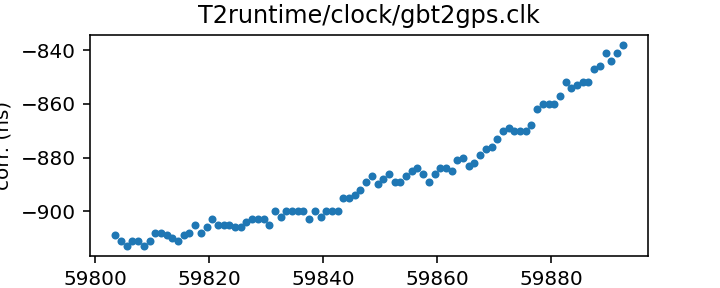
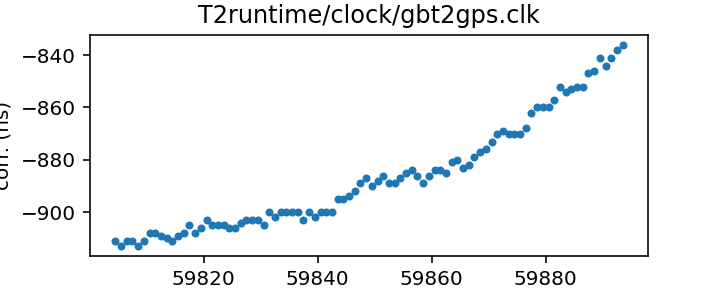
Routine gh-pages update from Github action Fri Nov 11 20:35:22 UTC 2022

diff --git a/status.md b/status.md
@@ -13,17 +13,17 @@ name of each clock file links to a page with more details.
 
 | Name | File | Corrections start | Corrections end | Last check date | Last check result 
 |:--- |:--- | --- | --- | --- |:--- 
-| [GPS to UTC](T2runtime/clock/gps2utc.clk.html) | `T2runtime/clock/gps2utc.clk` | 1993-01-01 MJD 48988.0 | 2022-10-27 MJD 59879.0 | 2022-11-10 | Updated 
-| [GPS to UTC (Combined Clock)](T2runtime/clock/gps2utc_cc.clk.html) | `T2runtime/clock/gps2utc_cc.clk` | 1993-01-01 MJD 48988.0 | 2022-10-27 MJD 59879.0 | 2022-11-10 | Updated 
-| [GPS to UTC (Corrected)](T2runtime/clock/gps2utc_c0p.clk.html) | `T2runtime/clock/gps2utc_c0p.clk` | 2010-12-29 MJD 55559.0 | 2022-10-27 MJD 59879.0 | 2022-11-10 | Updated 
-| [GBT](tempo/clock/time_gbt.dat.html) | `tempo/clock/time_gbt.dat` | 2000-12-31 MJD 51909.5 | 2022-11-09 MJD 59892.5 | 2022-11-10 | Updated 
-| [GBT (TEMPO2 converted from TEMPO)](T2runtime/clock/gbt2gps.clk.html) | `T2runtime/clock/gbt2gps.clk` | 2000-12-31 MJD 51909.5 | 2022-11-09 MJD 59892.5 | 2022-11-10 | Updated 
+| [GPS to UTC](T2runtime/clock/gps2utc.clk.html) | `T2runtime/clock/gps2utc.clk` | 1993-01-01 MJD 48988.0 | 2022-10-27 MJD 59879.0 | 2022-11-11 | Unchanged 
+| [GPS to UTC (Combined Clock)](T2runtime/clock/gps2utc_cc.clk.html) | `T2runtime/clock/gps2utc_cc.clk` | 1993-01-01 MJD 48988.0 | 2022-10-27 MJD 59879.0 | 2022-11-11 | Unchanged 
+| [GPS to UTC (Corrected)](T2runtime/clock/gps2utc_c0p.clk.html) | `T2runtime/clock/gps2utc_c0p.clk` | 2010-12-29 MJD 55559.0 | 2022-10-27 MJD 59879.0 | 2022-11-11 | Unchanged 
+| [GBT](tempo/clock/time_gbt.dat.html) | `tempo/clock/time_gbt.dat` | 2000-12-31 MJD 51909.5 | 2022-11-10 MJD 59893.5 | 2022-11-11 | Updated 
+| [GBT (TEMPO2 converted from TEMPO)](T2runtime/clock/gbt2gps.clk.html) | `T2runtime/clock/gbt2gps.clk` | 2000-12-31 MJD 51909.5 | 2022-11-10 MJD 59893.5 | 2022-11-11 | Updated 
 | [Jodrell Bank](T2runtime/clock/jb2gps.clk.html) | `T2runtime/clock/jb2gps.clk` | 2006-10-13 MJD 54021.4 | 2021-11-03 MJD 59521.0 | 2022-11-09 | Unchanged 
 | [Jodrell Bank Roach](T2runtime/clock/jbroach2jb.clk.html) | `T2runtime/clock/jbroach2jb.clk` | 2006-10-13 MJD 54021.4 | 2018-03-20 MJD 58197.6 | 2022-11-09 | Unchanged 
 | [Jodrell Bank DFB](T2runtime/clock/jbdfb2jb.clk.html) | `T2runtime/clock/jbdfb2jb.clk` | 2006-10-13 MJD 54021.4 | 2017-05-11 MJD 57884.0 | 2022-11-09 | Unchanged 
 | [Meerkat (observatory)](T2runtime/clock/mk2utc_observatory.clk.html) | `T2runtime/clock/mk2utc_observatory.clk` | 2019-01-01 MJD 58484.0 | 2022-10-05 MJD 59858.0 | 2022-11-07 | **Failed to download** 
-| [Leap seconds](tempo/clock/leap.sec.html) | `tempo/clock/leap.sec` | 1972-07-01 MJD 41499.0 | 2017-01-01 MJD 57754.0 | 2022-11-10 | Unchanged 
-| [UT1 table](tempo/clock/ut1.dat.html) | `tempo/clock/ut1.dat` | 1973-01-02 MJD 41684.0 | 2023-11-18 MJD 60266.0 | 2022-11-10 | Updated 
+| [Leap seconds](tempo/clock/leap.sec.html) | `tempo/clock/leap.sec` | 1972-07-01 MJD 41499.0 | 2017-01-01 MJD 57754.0 | 2022-11-11 | Unchanged 
+| [UT1 table](tempo/clock/ut1.dat.html) | `tempo/clock/ut1.dat` | 1973-01-02 MJD 41684.0 | 2023-11-18 MJD 60266.0 | 2022-11-11 | Unchanged 
 
 
 

diff --git a/T2runtime/clock/gbt2gps.clk.md b/T2runtime/clock/gbt2gps.clk.md
@@ -23,14 +23,13 @@ If questions arise about the conversion, contact Anne Archibald
 | Format | tempo2 |
 | Bogus last correction | False |
 | Clock file start | 2000-12-31 MJD 51909.5 |
-| Clock file end | 2022-11-09 MJD 59892.5 |
+| Clock file end | 2022-11-10 MJD 59893.5 |
 | Update interval (days) | 1 |
-| Last update attempt | 2022-11-10 |
+| Last update attempt | 2022-11-11 |
 | Last update result | Updated |
 
 Log entries from the last few update attempts:
 ```
-2022-11-01 20:38:00.308 - Updated
 2022-11-02 20:34:09.486 - Updated
 2022-11-03 20:28:51.377 - Updated
 2022-11-04 20:36:42.437 - Updated
@@ -40,12 +39,13 @@ Log entries from the last few update attempts:
 2022-11-08 20:36:20.152 - Updated
 2022-11-09 20:34:49.308 - Updated
 2022-11-10 20:35:51.859 - Updated
+2022-11-11 20:34:49.846 - Updated
 ```
 [Full log](https://raw.githubusercontent.com/ipta/pulsar-clock-corrections/main/log/T2runtime/clock/gbt2gps.clk.log)
 
 Leading comments from clock file:
 
-    # This file was automatically converted from tempo/clock/time_gbt.dat on 2022-11-10 20:35:51.772
+    # This file was automatically converted from tempo/clock/time_gbt.dat on 2022-11-11 20:34:49.768
 
 
 

diff --git a/tempo/clock/time_gbt.dat.md b/tempo/clock/time_gbt.dat.md
@@ -18,14 +18,13 @@ If questions arise, contact Ryan S. Lynch <rlynch@nrao.edu>.
 | Format | tempo |
 | Bogus last correction | False |
 | Clock file start | 2000-12-31 MJD 51909.5 |
-| Clock file end | 2022-11-09 MJD 59892.5 |
+| Clock file end | 2022-11-10 MJD 59893.5 |
 | Update interval (days) | 1 |
-| Last update attempt | 2022-11-10 |
+| Last update attempt | 2022-11-11 |
 | Last update result | Updated |
 
 Log entries from the last few update attempts:
 ```
-2022-11-01 20:38:00.240 - Updated
 2022-11-02 20:34:09.416 - Updated
 2022-11-03 20:28:51.283 - Updated
 2022-11-04 20:36:42.367 - Updated
@@ -35,6 +34,7 @@ Log entries from the last few update attempts:
 2022-11-08 20:36:20.083 - Updated
 2022-11-09 20:34:49.237 - Updated
 2022-11-10 20:35:51.770 - Updated
+2022-11-11 20:34:49.765 - Updated
 ```
 [Full log](https://raw.githubusercontent.com/ipta/pulsar-clock-corrections/main/log/tempo/clock/time_gbt.dat.log)
 

diff --git a/T2runtime/clock/gps2utc_c0p.clk.md b/T2runtime/clock/gps2utc_c0p.clk.md
@@ -30,12 +30,11 @@ about the BIPM's published corrections, contact <tai@bipm.org>.
 | Clock file start | 2010-12-29 MJD 55559.0 |
 | Clock file end | 2022-10-27 MJD 59879.0 |
 | Update interval (days) | 1 |
-| Last update attempt | 2022-11-10 |
-| Last update result | Updated |
+| Last update attempt | 2022-11-11 |
+| Last update result | Unchanged |
 
 Log entries from the last few update attempts:
 ```
-2022-11-01 20:37:59.863 - Unchanged
 2022-11-02 20:34:08.736 - Unchanged
 2022-11-03 20:28:50.800 - Unchanged
 2022-11-04 20:36:41.888 - Unchanged
@@ -45,6 +44,7 @@ Log entries from the last few update attempts:
 2022-11-08 20:36:19.633 - Unchanged
 2022-11-09 20:34:48.859 - Unchanged
 2022-11-10 20:35:50.310 - Updated
+2022-11-11 20:34:48.672 - Unchanged
 ```
 [Full log](https://raw.githubusercontent.com/ipta/pulsar-clock-corrections/main/log/T2runtime/clock/gps2utc_c0p.clk.log)
 

diff --git a/T2runtime/clock/gps2utc_cc.clk.md b/T2runtime/clock/gps2utc_cc.clk.md
@@ -29,12 +29,11 @@ about the BIPM's published corrections, contact <tai@bipm.org>.
 | Clock file start | 1993-01-01 MJD 48988.0 |
 | Clock file end | 2022-10-27 MJD 59879.0 |
 | Update interval (days) | 1 |
-| Last update attempt | 2022-11-10 |
-| Last update result | Updated |
+| Last update attempt | 2022-11-11 |
+| Last update result | Unchanged |
 
 Log entries from the last few update attempts:
 ```
-2022-11-01 20:37:59.852 - Unchanged
 2022-11-02 20:34:08.725 - Unchanged
 2022-11-03 20:28:50.789 - Unchanged
 2022-11-04 20:36:41.877 - Unchanged
@@ -44,6 +43,7 @@ Log entries from the last few update attempts:
 2022-11-08 20:36:19.622 - Unchanged
 2022-11-09 20:34:48.844 - Unchanged
 2022-11-10 20:35:50.270 - Updated
+2022-11-11 20:34:48.657 - Unchanged
 ```
 [Full log](https://raw.githubusercontent.com/ipta/pulsar-clock-corrections/main/log/T2runtime/clock/gps2utc_cc.clk.log)
 

diff --git a/T2runtime/clock/gps2utc.clk.md b/T2runtime/clock/gps2utc.clk.md
@@ -32,12 +32,11 @@ about the BIPM's published corrections, contact <tai@bipm.org>.
 | Clock file start | 1993-01-01 MJD 48988.0 |
 | Clock file end | 2022-10-27 MJD 59879.0 |
 | Update interval (days) | 1 |
-| Last update attempt | 2022-11-10 |
-| Last update result | Updated |
+| Last update attempt | 2022-11-11 |
+| Last update result | Unchanged |
 
 Log entries from the last few update attempts:
 ```
-2022-11-01 20:37:59.820 - Unchanged
 2022-11-02 20:34:08.693 - Unchanged
 2022-11-03 20:28:50.757 - Unchanged
 2022-11-04 20:36:41.843 - Unchanged
@@ -47,6 +46,7 @@ Log entries from the last few update attempts:
 2022-11-08 20:36:19.589 - Unchanged
 2022-11-09 20:34:48.808 - Unchanged
 2022-11-10 20:35:50.165 - Updated
+2022-11-11 20:34:48.614 - Unchanged
 ```
 [Full log](https://raw.githubusercontent.com/ipta/pulsar-clock-corrections/main/log/T2runtime/clock/gps2utc.clk.log)
 

diff --git a/tempo/clock/ut1.dat.md b/tempo/clock/ut1.dat.md
@@ -30,12 +30,11 @@ If there are any questions, contact Anne Archibald
 | File start | 1973-01-02 MJD 41684.0 |
 | File end | 2023-11-18 MJD 60266.0 |
 | Update interval (days) | 0 |
-| Last update attempt | 2022-11-10 |
-| Last update result | Updated |
+| Last update attempt | 2022-11-11 |
+| Last update result | Unchanged |
 
 Log entries from the last few update attempts:
 ```
-2022-11-01 20:38:08.211 - Unchanged
 2022-11-02 20:34:25.370 - Unchanged
 2022-11-03 20:29:02.697 - Updated
 2022-11-04 20:36:50.815 - Unchanged
@@ -45,5 +44,6 @@ Log entries from the last few update attempts:
 2022-11-08 20:36:28.717 - Unchanged
 2022-11-09 20:34:59.759 - Unchanged
 2022-11-10 20:36:10.888 - Updated
+2022-11-11 20:35:03.375 - Unchanged
 ```
 [Full log](https://raw.githubusercontent.com/ipta/pulsar-clock-corrections/main/log/tempo/clock/ut1.dat.log)

diff --git a/tempo/clock/leap.sec.md b/tempo/clock/leap.sec.md
@@ -21,12 +21,11 @@ If there are any questions, contact Anne Archibald
 | File start | 1972-07-01 MJD 41499.0 |
 | File end | 2017-01-01 MJD 57754.0 |
 | Update interval (days) | 0 |
-| Last update attempt | 2022-11-10 |
+| Last update attempt | 2022-11-11 |
 | Last update result | Unchanged |
 
 Log entries from the last few update attempts:
 ```
-2022-11-01 20:38:00.343 - Unchanged
 2022-11-02 20:34:15.401 - Unchanged
 2022-11-03 20:28:54.526 - Unchanged
 2022-11-04 20:36:42.474 - Unchanged
@@ -36,5 +35,6 @@ Log entries from the last few update attempts:
 2022-11-08 20:36:20.189 - Unchanged
 2022-11-09 20:34:51.810 - Unchanged
 2022-11-10 20:35:54.994 - Unchanged
+2022-11-11 20:34:49.897 - Unchanged
 ```
 [Full log](https://raw.githubusercontent.com/ipta/pulsar-clock-corrections/main/log/tempo/clock/leap.sec.log)
